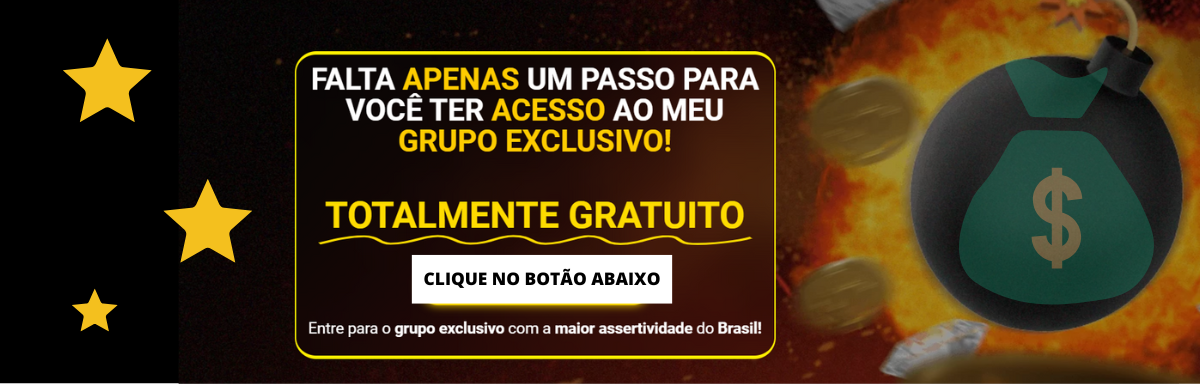
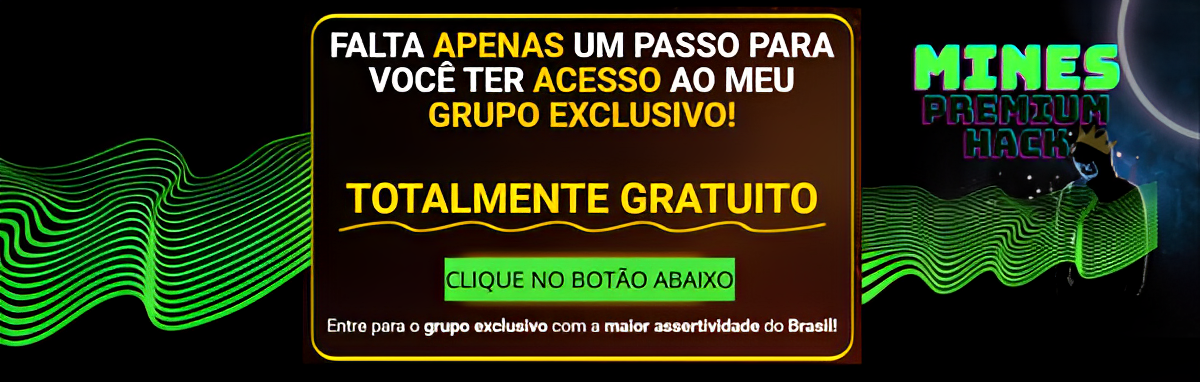
Add files via upload

diff --git a/privacidade.html b/privacidade.html
@@ -14,7 +14,7 @@
     <link rel="shortcut icon" type="image/jpg" href="./assets/img/favicon.png">
 
     <!-- Título da Página -->
-    <title>Política de Privacidade | Mines grátis</title>
+    <title>Política de Privacidade | Mines Permium Hack</title>
     
     <style type="text/css">
       body {
@@ -28,9 +28,9 @@
     <div class="container py-5">
       <div class="row justify-content-center">
         <div class="col-lg-8">
-          <h2>Política Privacidade</h2>                    <p>A sua privacidade é importante para nós. É política do Mines grátis respeitar a sua privacidade em relação a qualquer informação sua que possamos coletar no site <a href="#">Mines grátis</a>, e outros sites que possuímos e operamos.</p>                    <p>Solicitamos informações pessoais apenas quando realmente precisamos delas para lhe fornecer um serviço. Fazemo-lo por meios justos e legais, com o seu conhecimento e consentimento. Também informamos por que estamos coletando e como será usado.                    </p>                    <p>Apenas retemos as informações coletadas pelo tempo necessário para fornecer o serviço solicita
+          <h2>Política Privacidade</h2>                    <p>A sua privacidade é importante para nós. É política do Mines Permium Hack respeitar a sua privacidade em relação a qualquer informação sua que possamos coletar no site <a href="#">Mines grátis</a>, e outros sites que possuímos e operamos.</p>                    <p>Solicitamos informações pessoais apenas quando realmente precisamos delas para lhe fornecer um serviço. Fazemo-lo por meios justos e legais, com o seu conhecimento e consentimento. Também informamos por que estamos coletando e como será usado.                    </p>                    <p>Apenas retemos as informações coletadas pelo tempo necessário para fornecer o serviço solicita
             
-            do. Quando armazenamos dados, protegemos dentro de meios comercialmente aceitáveis para evitar perdas e roubos, bem como acesso, divulgação, cópia, uso ou                        modificação não autorizados.</p>                    <p>Não compartilhamos informações de identificação pessoal publicamente ou com terceiros, exceto quando exigido por lei.</p>                    <p>O nosso site pode ter links para sites externos que não são operados por nós. Esteja ciente de que não temos controle sobre o conteúdo e práticas desses sites e não podemos aceitar responsabilidade por suas respectivas <a href='https://politicaprivacidade.com' target='_BLANK'>políticas de privacidade</a>.                    </p>                    <p>Você é livre para recusar a nossa solicitação de informações pessoais, entendendo que talvez não possamos fornecer alguns dos serviços desejados.</p>                    <p>O uso continuado de nosso site será considerado como aceitação de nossas práticas em torno de privacidade e informações pessoais. Se você tiver alguma dúvida sobre como lidamos com dados do usuário e informações pessoais, entre em contacto connosco.</p>                    <h2>Política de Cookies Mines grátis</h2>                    <h3>O que são cookies?</h3>                    <p>Como é prática comum em quase todos os sites profissionais, este site usa cookies, que são pequenos arquivos baixados no seu computador, para melhorar sua experiência. Esta página descreve quais informações eles coletam, como as usamos e por que às vezes                        precisamos armazenar esses cookies. Também compartilharemos como você pode impedir que esses cookies sejam armazenados, no entanto, isso pode fazer o downgrade ou 'quebrar' certos elementos da funcionalidade do site.</p>                    <h3>Como usamos os cookies?</h3>                    <p>Utilizamos cookies por vários motivos, detalhados abaixo. Infelizmente, na maioria dos casos, não existem opções padrão do setor para desativar os cookies sem desativar completamente a funcionalidade e os recursos que eles adicionam a este site. É recomendável                        que você deixe todos os cookies se não tiver certeza se precisa ou não deles, caso sejam usados para fornecer um serviço que você usa.</p>                    <h3>Desativar cookies</h3>                    <p>Você pode impedir a configuração de cookies ajustando as configurações do seu navegador (consulte a Ajuda do navegador para saber como fazer isso). Esteja ciente de que a desativação de cookies afetará a funcionalidade deste e de muitos outros sites que                        você visita. A desativação de cookies geralmente resultará na desativação de determinadas funcionalidades e recursos deste site. Portanto, é recomendável que você não desative os cookies.</p>                    <h3>Cookies que definimos</h3>                    <ul>                        <li>                            Cookies relacionados à conta<br><br> Se você criar uma conta connosco, usaremos cookies para o gerenciamento do processo de inscrição e administração geral. Esses cookies geralmente serão excluídos quando você sair do sistema, porém, em alguns                            casos, eles poderão permanecer posteriormente para lembrar as preferências do seu site ao sair.<br><br>                        </li>                        <li>                            Cookies relacionados ao login<br><br> Utilizamos cookies quando você está logado, para que possamos lembrar dessa ação. Isso evita que você precise fazer login sempre que visitar uma nova página. Esses cookies são normalmente removidos ou limpos                            quando você efetua logout para garantir que você possa acessar apenas a recursos e áreas restritas ao efetuar login.<br><br>                        </li>                        <li>                            Cookies relacionados a boletins por e-mail<br><br> Este site oferece serviços de assinatura de boletim informativo ou e-mail e os cookies podem ser usados para lembrar se você já está registrado e se deve mostrar determinadas notificações                            válidas apenas para usuários inscritos / não inscritos.<br><br>                        </li>                        <li>                            Pedidos processando cookies relacionados<br><br> Este site oferece facilidades de comércio eletrônico ou pagamento e alguns cookies são essenciais para garantir que seu pedido seja lembrado entre as páginas, para que possamos processá-lo adequadamente.<br><br>                        </li>                        <li>                            Cookies relacionados a pesquisas<br><br> Periodicamente, oferecemos pesquisas e questionários para fornecer informações interessantes, ferramentas úteis ou para entender nossa base de usuários com mais precisão. Essas pesquisas podem usar cookies                            para lembrar quem já participou numa pesquisa ou para fornecer resultados precisos após a alteração das páginas.<br><br>                        </li>                        <li>                            Cookies relacionados a formulários<br><br> Quando você envia dados por meio de um formulário como os encontrados nas páginas de contacto ou nos formulários de comentários, os cookies podem ser configurados para lembrar os detalhes do usuário                            para correspondência futura.<br><br>                        </li>                        <li>                            Cookies de preferências do site<br><br> Para proporcionar uma ótima experiência neste site, fornecemos a funcionalidade para definir suas preferências de como esse site é executado quando você o usa. Para lembrar suas preferências, precisamos                            definir cookies para que essas informações possam ser chamadas sempre que você interagir com uma página for afetada por suas preferências.<br>                        </li>                    </ul>                    <h3>Cookies de Terceiros</h3>                    <p>Em alguns casos especiais, também usamos cookies fornecidos por terceiros confiáveis. A seção a seguir detalha quais cookies de terceiros você pode encontrar através deste site.</p>                    <ul>                        <li>                            Este site usa o Google Analytics, que é uma das soluções de análise mais difundidas e confiáveis da Web, para nos ajudar a entender como você usa o site e como podemos melhorar sua experiência. Esses cookies podem rastrear itens como quanto tempo                            você gasta no site e as páginas visitadas, para que possamos continuar produzindo conteúdo atraente.                        </li>                    </ul>                    <p>Para mais informações sobre cookies do Google Analytics, consulte a página oficial do Google Analytics.</p>                    <ul>                        <li>                            As análises de terceiros são usadas para rastrear e medir o uso deste site, para que possamos continuar produzindo conteúdo atrativo. Esses cookies podem rastrear itens como o tempo que você passa no site ou as páginas visitadas, o que nos ajuda a entender                            como podemos melhorar o site para você.</li>                        <li>                            Periodicamente, testamos novos recursos e fazemos alterações subtis na maneira como o site se apresenta. Quando ainda estamos testando novos recursos, esses cookies podem ser usados para garantir que você receba uma experiência consistente enquanto                            estiver no site, enquanto entendemos quais otimizações os nossos usuários mais apreciam.</li>                        <li>                            À medida que vendemos produtos, é importante entendermos as estatísticas sobre quantos visitantes de nosso site realmente compram e, portanto, esse é o tipo de dados que esses cookies rastrearão. Isso é importante para você, pois significa que podemos                            fazer previsões de negócios com precisão que nos permitem analizar nossos custos de publicidade e produtos para garantir o melhor preço possível.</li>                                            </ul>                    <h3>Compromisso do Usuário</h3>                                <p>O usuário se compromete a fazer uso adequado dos conteúdos e da informação que o Mines grátis oferece no site e com caráter enunciativo, mas não limitativo:</p>                                        <ul>                        <li>A) Não se envolver em atividades que sejam ilegais ou contrárias à boa fé a à ordem pública;</li>                        <li>B) Não difundir propaganda ou conteúdo de natureza racista, xenofóbica, <a style='color: inherit !important; text-decoration:none !important;' href='https://ondeapostar.pt/onde-da-a-bola/'>Onde Bola</a> ou azar, qualquer tipo de pornografia ilegal, de apologia ao terrorismo ou contra os direitos humanos;</li>                        <li>C) Não causar danos aos sistemas físicos (hardwares) e lógicos (softwares) do Mines grátis, de seus fornecedores ou terceiros, para introduzir ou disseminar vírus informáticos ou quaisquer outros sistemas de hardware ou software que sejam capazes de causar danos anteriormente mencionados.</li>                    </ul>                                        <h3>Mais informações</h3>                    <p>Esperemos que esteja esclarecido e, como mencionado anteriormente, se houver algo que você não tem certeza se precisa ou não, geralmente é mais seguro deixar os cookies ativados, caso interaja com um dos recursos que você usa em nosso site.</p>                    <p>Esta política é efetiva a partir de <strong>March</strong>/<strong>2022</strong>.</p>
+            do. Quando armazenamos dados, protegemos dentro de meios comercialmente aceitáveis para evitar perdas e roubos, bem como acesso, divulgação, cópia, uso ou                        modificação não autorizados.</p>                    <p>Não compartilhamos informações de identificação pessoal publicamente ou com terceiros, exceto quando exigido por lei.</p>                    <p>O nosso site pode ter links para sites externos que não são operados por nós. Esteja ciente de que não temos controle sobre o conteúdo e práticas desses sites e não podemos aceitar responsabilidade por suas respectivas <a href='https://politicaprivacidade.com' target='_BLANK'>políticas de privacidade</a>.                    </p>                    <p>Você é livre para recusar a nossa solicitação de informações pessoais, entendendo que talvez não possamos fornecer alguns dos serviços desejados.</p>                    <p>O uso continuado de nosso site será considerado como aceitação de nossas práticas em torno de privacidade e informações pessoais. Se você tiver alguma dúvida sobre como lidamos com dados do usuário e informações pessoais, entre em contacto connosco.</p>                    <h2>Política de Cookies Mines Permium Hack</h2>                    <h3>O que são cookies?</h3>                    <p>Como é prática comum em quase todos os sites profissionais, este site usa cookies, que são pequenos arquivos baixados no seu computador, para melhorar sua experiência. Esta página descreve quais informações eles coletam, como as usamos e por que às vezes                        precisamos armazenar esses cookies. Também compartilharemos como você pode impedir que esses cookies sejam armazenados, no entanto, isso pode fazer o downgrade ou 'quebrar' certos elementos da funcionalidade do site.</p>                    <h3>Como usamos os cookies?</h3>                    <p>Utilizamos cookies por vários motivos, detalhados abaixo. Infelizmente, na maioria dos casos, não existem opções padrão do setor para desativar os cookies sem desativar completamente a funcionalidade e os recursos que eles adicionam a este site. É recomendável                        que você deixe todos os cookies se não tiver certeza se precisa ou não deles, caso sejam usados para fornecer um serviço que você usa.</p>                    <h3>Desativar cookies</h3>                    <p>Você pode impedir a configuração de cookies ajustando as configurações do seu navegador (consulte a Ajuda do navegador para saber como fazer isso). Esteja ciente de que a desativação de cookies afetará a funcionalidade deste e de muitos outros sites que                        você visita. A desativação de cookies geralmente resultará na desativação de determinadas funcionalidades e recursos deste site. Portanto, é recomendável que você não desative os cookies.</p>                    <h3>Cookies que definimos</h3>                    <ul>                        <li>                            Cookies relacionados à conta<br><br> Se você criar uma conta connosco, usaremos cookies para o gerenciamento do processo de inscrição e administração geral. Esses cookies geralmente serão excluídos quando você sair do sistema, porém, em alguns                            casos, eles poderão permanecer posteriormente para lembrar as preferências do seu site ao sair.<br><br>                        </li>                        <li>                            Cookies relacionados ao login<br><br> Utilizamos cookies quando você está logado, para que possamos lembrar dessa ação. Isso evita que você precise fazer login sempre que visitar uma nova página. Esses cookies são normalmente removidos ou limpos                            quando você efetua logout para garantir que você possa acessar apenas a recursos e áreas restritas ao efetuar login.<br><br>                        </li>                        <li>                            Cookies relacionados a boletins por e-mail<br><br> Este site oferece serviços de assinatura de boletim informativo ou e-mail e os cookies podem ser usados para lembrar se você já está registrado e se deve mostrar determinadas notificações                            válidas apenas para usuários inscritos / não inscritos.<br><br>                        </li>                        <li>                            Pedidos processando cookies relacionados<br><br> Este site oferece facilidades de comércio eletrônico ou pagamento e alguns cookies são essenciais para garantir que seu pedido seja lembrado entre as páginas, para que possamos processá-lo adequadamente.<br><br>                        </li>                        <li>                            Cookies relacionados a pesquisas<br><br> Periodicamente, oferecemos pesquisas e questionários para fornecer informações interessantes, ferramentas úteis ou para entender nossa base de usuários com mais precisão. Essas pesquisas podem usar cookies                            para lembrar quem já participou numa pesquisa ou para fornecer resultados precisos após a alteração das páginas.<br><br>                        </li>                        <li>                            Cookies relacionados a formulários<br><br> Quando você envia dados por meio de um formulário como os encontrados nas páginas de contacto ou nos formulários de comentários, os cookies podem ser configurados para lembrar os detalhes do usuário                            para correspondência futura.<br><br>                        </li>                        <li>                            Cookies de preferências do site<br><br> Para proporcionar uma ótima experiência neste site, fornecemos a funcionalidade para definir suas preferências de como esse site é executado quando você o usa. Para lembrar suas preferências, precisamos                            definir cookies para que essas informações possam ser chamadas sempre que você interagir com uma página for afetada por suas preferências.<br>                        </li>                    </ul>                    <h3>Cookies de Terceiros</h3>                    <p>Em alguns casos especiais, também usamos cookies fornecidos por terceiros confiáveis. A seção a seguir detalha quais cookies de terceiros você pode encontrar através deste site.</p>                    <ul>                        <li>                            Este site usa o Google Analytics, que é uma das soluções de análise mais difundidas e confiáveis da Web, para nos ajudar a entender como você usa o site e como podemos melhorar sua experiência. Esses cookies podem rastrear itens como quanto tempo                            você gasta no site e as páginas visitadas, para que possamos continuar produzindo conteúdo atraente.                        </li>                    </ul>                    <p>Para mais informações sobre cookies do Google Analytics, consulte a página oficial do Google Analytics.</p>                    <ul>                        <li>                            As análises de terceiros são usadas para rastrear e medir o uso deste site, para que possamos continuar produzindo conteúdo atrativo. Esses cookies podem rastrear itens como o tempo que você passa no site ou as páginas visitadas, o que nos ajuda a entender                            como podemos melhorar o site para você.</li>                        <li>                            Periodicamente, testamos novos recursos e fazemos alterações subtis na maneira como o site se apresenta. Quando ainda estamos testando novos recursos, esses cookies podem ser usados para garantir que você receba uma experiência consistente enquanto                            estiver no site, enquanto entendemos quais otimizações os nossos usuários mais apreciam.</li>                        <li>                            À medida que vendemos produtos, é importante entendermos as estatísticas sobre quantos visitantes de nosso site realmente compram e, portanto, esse é o tipo de dados que esses cookies rastrearão. Isso é importante para você, pois significa que podemos                            fazer previsões de negócios com precisão que nos permitem analizar nossos custos de publicidade e produtos para garantir o melhor preço possível.</li>                                            </ul>                    <h3>Compromisso do Usuário</h3>                                <p>O usuário se compromete a fazer uso adequado dos conteúdos e da informação que o Mines Permium Hack oferece no site e com caráter enunciativo, mas não limitativo:</p>                                        <ul>                        <li>A) Não se envolver em atividades que sejam ilegais ou contrárias à boa fé a à ordem pública;</li>                        <li>B) Não difundir propaganda ou conteúdo de natureza racista, xenofóbica, <a style='color: inherit !important; text-decoration:none !important;' href='https://ondeapostar.pt/onde-da-a-bola/'>Onde Bola</a> ou azar, qualquer tipo de pornografia ilegal, de apologia ao terrorismo ou contra os direitos humanos;</li>                        <li>C) Não causar danos aos sistemas físicos (hardwares) e lógicos (softwares) do Mines Permium Hack, de seus fornecedores ou terceiros, para introduzir ou disseminar vírus informáticos ou quaisquer outros sistemas de hardware ou software que sejam capazes de causar danos anteriormente mencionados.</li>                    </ul>                                        <h3>Mais informações</h3>                    <p>Esperemos que esteja esclarecido e, como mencionado anteriormente, se houver algo que você não tem certeza se precisa ou não, geralmente é mais seguro deixar os cookies ativados, caso interaja com um dos recursos que você usa em nosso site.</p>                    <p>Esta política é efetiva a partir de <strong>March</strong>/<strong>2022</strong>.</p>
         </div>
       </div>
     </div>

diff --git a/termos.html b/termos.html
@@ -14,7 +14,7 @@
     <link rel="shortcut icon" type="image/jpg" href="./assets/img/favicon.png">
 
     <!-- Título da Página -->
-    <title>Termos de Uso | Mines grátis </title>
+    <title>Termos de Uso | Mines Premium Hack </title>
     
     <style type="text/css">
       body {
@@ -28,7 +28,7 @@
     <div class="container py-5">
       <div class="row justify-content-center">
         <div class="col-lg-8">
-          <h2>1. Termos</h2>            <p>Ao acessar ao site <a href='#'>Mines grátis, concorda em cumprir estes termos de serviço, todas as leis e regulamentos aplicáveis e concorda que é responsável pelo cumprimento de todas as leis locais aplicáveis. Se você não concordar com algum                desses termos, está proibido de usar ou acessar este site. Os materiais contidos neste site são protegidos pelas leis de direitos autorais e marcas comerciais aplicáveis.</p>            <h2>2. Uso de Licença</h2>            <p>É concedida permissão para baixar temporariamente uma cópia dos materiais (informações ou software) no site TiMiines gratis  apenas para visualização transitória pessoal e não comercial. Esta é a concessão de uma licença, não uma transferência de título e,                sob esta licença, você não pode: </p>            <ol>            <li>modificar ou copiar os materiais;  </li>            <li>usar os materiais para qualquer finalidade comercial ou para exibição pública (comercial ou não comercial);  </li>            <li>tentar descompilar ou fazer engenharia reversa de qualquer software contido no site TiMiines gratis  </li>            <li>remover quaisquer direitos autorais ou outras notações de propriedade dos materiais; ou  </li>            <li>transferir os materiais para outra pessoa ou 'espelhe' os materiais em qualquer outro servidor.</li>            </ol>            <p>Esta licença será automaticamente rescindida se você violar alguma dessas restrições e poderá ser rescindida por TiMiines gratis  qualquer momento. Ao encerrar a visualização desses materiais ou após o término desta licença, você deve apagar todos os materiais                baixados em sua posse, seja em formato eletrónico ou impresso.</p>            <h2>3. Isenção de responsabilidade</h2>            <ol>            <li>Os materiais no site da TiMiines gratis ão fornecidos 'como estão'. TiMiines gratis ão oferece garantias, expressas ou implícitas, e, por este meio, isenta e nega todas as outras garantias, incluindo, sem limitação, garantias implícitas ou condições de comercialização,            adequação a um fim específico ou não violação de propriedade intelectual ou outra violação de direitos. </li>            <li>Além disso, o TiMiines gratis ão garante ou faz qualquer representação relativa à precisão, aos resultados prováveis ou à confiabilidade do uso dos            materiais em seu site ou de outra forma relacionado a esses materiais ou em sites vinculados a este site.</li>            </ol>            <h2>4. Limitações</h2>            <p>Em nenhum caso o TiMiines gratis u seus fornecedores serão responsáveis por quaisquer danos (incluindo, sem limitação, danos por perda de dados ou lucro ou devido a interrupção dos negócios) decorrentes do uso ou da incapacidade de usar os materiais em TiMiines gratis                mesmo que TiMiines gratis u um representante autorizado da TiMiines gratis enha sido notificado oralmente ou por escrito da possibilidade de tais danos. Como algumas jurisdições não permitem limitações em garantias implícitas, ou limitações de responsabilidade                por danos conseqüentes ou incidentais, essas limitações podem não se aplicar a você.</p>            <h2>5. Precisão dos materiais</h2>            <p>Os materiais exibidos no site da TiMiines gratis odem incluir erros técnicos, tipográficos ou fotográficos. TiMiines gratis ão garante que qualquer material em seu site seja preciso, completo ou atual. TiMiines gratis ode fazer alterações nos materiais contidos em seu                site a qualquer momento, sem aviso prévio. No entanto, TiMiines gratis ão se compromete a atualizar os materiais.</p>            <h2>6. Links</h2>            <p>O TiMiines gratis ão analisou todos os sites vinculados ao seu site e não é responsável pelo conteúdo de nenhum site vinculado. A inclusão de qualquer link não implica endosso por TiMiines gratis o site. O uso de qualquer site vinculado é por conta e risco do usuário.</p>            </p>            <h3>Modificações</h3>            <p>O TiMiines gratis ode revisar estes termos de serviço do site a qualquer momento, sem aviso prévio. Ao usar este site, você concorda em ficar vinculado à versão atual desses termos de serviço.</p>            <h3>Lei aplicável</h3>            <p>Estes termos e condições são regidos e interpretados de acordo com as leis do TiMiines gratis  você se submete irrevogavelmente à jurisdição exclusiva dos tribunais naquele estado ou localidade.</p>
+          <h2>1. Termos</h2>            <p>Ao acessar ao site <a href='#'>Mines Premium Hack, concorda em cumprir estes termos de serviço, todas as leis e regulamentos aplicáveis e concorda que é responsável pelo cumprimento de todas as leis locais aplicáveis. Se você não concordar com algum                desses termos, está proibido de usar ou acessar este site. Os materiais contidos neste site são protegidos pelas leis de direitos autorais e marcas comerciais aplicáveis.</p>            <h2>2. Uso de Licença</h2>            <p>É concedida permissão para baixar temporariamente uma cópia dos materiais (informações ou software) no site TiMiines gratis  apenas para visualização transitória pessoal e não comercial. Esta é a concessão de uma licença, não uma transferência de título e,                sob esta licença, você não pode: </p>            <ol>            <li>modificar ou copiar os materiais;  </li>            <li>usar os materiais para qualquer finalidade comercial ou para exibição pública (comercial ou não comercial);  </li>            <li>tentar descompilar ou fazer engenharia reversa de qualquer software contido no site TiMiines gratis  </li>            <li>remover quaisquer direitos autorais ou outras notações de propriedade dos materiais; ou  </li>            <li>transferir os materiais para outra pessoa ou 'espelhe' os materiais em qualquer outro servidor.</li>            </ol>            <p>Esta licença será automaticamente rescindida se você violar alguma dessas restrições e poderá ser rescindida por TiMiines gratis  qualquer momento. Ao encerrar a visualização desses materiais ou após o término desta licença, você deve apagar todos os materiais                baixados em sua posse, seja em formato eletrónico ou impresso.</p>            <h2>3. Isenção de responsabilidade</h2>            <ol>            <li>Os materiais no site da TiMiines gratis ão fornecidos 'como estão'. TiMiines gratis ão oferece garantias, expressas ou implícitas, e, por este meio, isenta e nega todas as outras garantias, incluindo, sem limitação, garantias implícitas ou condições de comercialização,            adequação a um fim específico ou não violação de propriedade intelectual ou outra violação de direitos. </li>            <li>Além disso, o TiMiines gratis ão garante ou faz qualquer representação relativa à precisão, aos resultados prováveis ou à confiabilidade do uso dos            materiais em seu site ou de outra forma relacionado a esses materiais ou em sites vinculados a este site.</li>            </ol>            <h2>4. Limitações</h2>            <p>Em nenhum caso o TiMiines gratis u seus fornecedores serão responsáveis por quaisquer danos (incluindo, sem limitação, danos por perda de dados ou lucro ou devido a interrupção dos negócios) decorrentes do uso ou da incapacidade de usar os materiais em TiMiines gratis                mesmo que TiMiines gratis u um representante autorizado da TiMiines gratis enha sido notificado oralmente ou por escrito da possibilidade de tais danos. Como algumas jurisdições não permitem limitações em garantias implícitas, ou limitações de responsabilidade                por danos conseqüentes ou incidentais, essas limitações podem não se aplicar a você.</p>            <h2>5. Precisão dos materiais</h2>            <p>Os materiais exibidos no site da TiMiines gratis odem incluir erros técnicos, tipográficos ou fotográficos. TiMiines gratis ão garante que qualquer material em seu site seja preciso, completo ou atual. TiMiines gratis ode fazer alterações nos materiais contidos em seu                site a qualquer momento, sem aviso prévio. No entanto, TiMiines gratis ão se compromete a atualizar os materiais.</p>            <h2>6. Links</h2>            <p>O TiMiines gratis ão analisou todos os sites vinculados ao seu site e não é responsável pelo conteúdo de nenhum site vinculado. A inclusão de qualquer link não implica endosso por TiMiines gratis o site. O uso de qualquer site vinculado é por conta e risco do usuário.</p>            </p>            <h3>Modificações</h3>            <p>O TiMiines gratis ode revisar estes termos de serviço do site a qualquer momento, sem aviso prévio. Ao usar este site, você concorda em ficar vinculado à versão atual desses termos de serviço.</p>            <h3>Lei aplicável</h3>            <p>Estes termos e condições são regidos e interpretados de acordo com as leis do TiMiines gratis  você se submete irrevogavelmente à jurisdição exclusiva dos tribunais naquele estado ou localidade.</p>
         </div>
       </div>
     </div>

diff --git a/index.html b/index.html
@@ -77,8 +77,8 @@
             <!-- Botão -->
             <div id="cta1" class="mt-4 d-none">
               <a href="https://t.me/+QtZND1jPvaMzZDQx" class="a-btn" style="text-decoration: none;">
-                <span class="span-btn">ACESSO AO HACKER GRATUITO!</span>
-                <span class="span-btn2">(APENAS 25 VAGAS)</span>
+                <span class="span-btn">QUERO ACESSO AO HACKER GRATUITO!</span>
+                <span class="span-btn2">(APENAS 15 VAGAS NESSA PROMOÇÃO)</span>
               </a>
             </div>
 
